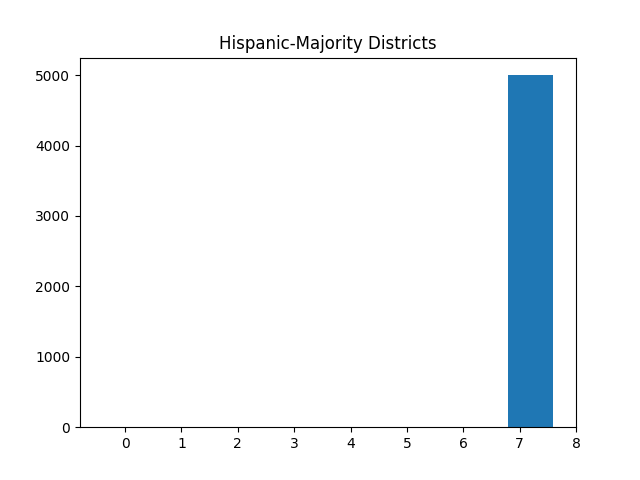
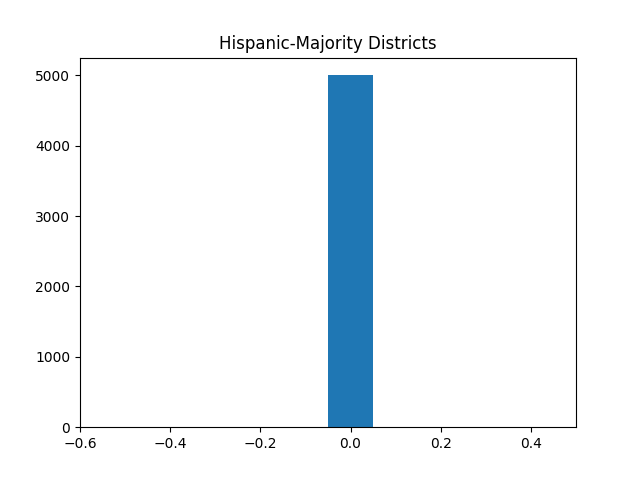
fixed population histograms

diff --git a/MAUP/Colorado/MCMC.py b/MAUP/Colorado/MCMC.py
@@ -31,11 +31,11 @@ def create_updaters():
 
     # 'TOTPOP20', 'VAP20', 'HISP', 'NH_WHITE', 'NH_BLACK', 'NH_AMIN', 'NH_ASIAN', 'NH_NHPI', 'NH_OTHER', 'NH_2MORE'
     chain_updaters = {"population": Tally("TOTPOP20", alias="population"),
-                      "white population": Tally("NH_WHITE", alias="population"),
-                      "black population": Tally("NH_BLACK", alias="population"),
-                      "hispanic population": Tally("HISP", alias="population"),
-                      "native population": Tally("NH_AMIN", alias="population"),
-                      "asian population": Tally("NH_ASIAN", alias="population"),
+                      "white population": Tally("NH_WHITE", alias="white population"),
+                      "black population": Tally("NH_BLACK", alias="black population"),
+                      "hispanic population": Tally("HISP", alias="hispanic population"),
+                      "native population": Tally("NH_AMIN", alias="native population"),
+                      "asian population": Tally("NH_ASIAN", alias="asian population"),
                       "cut edges": cut_edges,
                       }
 
@@ -111,6 +111,7 @@ def walk(chain, num_dists):
     asian_ensemble = []
 
     for part in chain.with_progress_bar():
+        
         # Add cut edges
         cut_edge_ensemble.append(len(part["cut edges"]))
 
